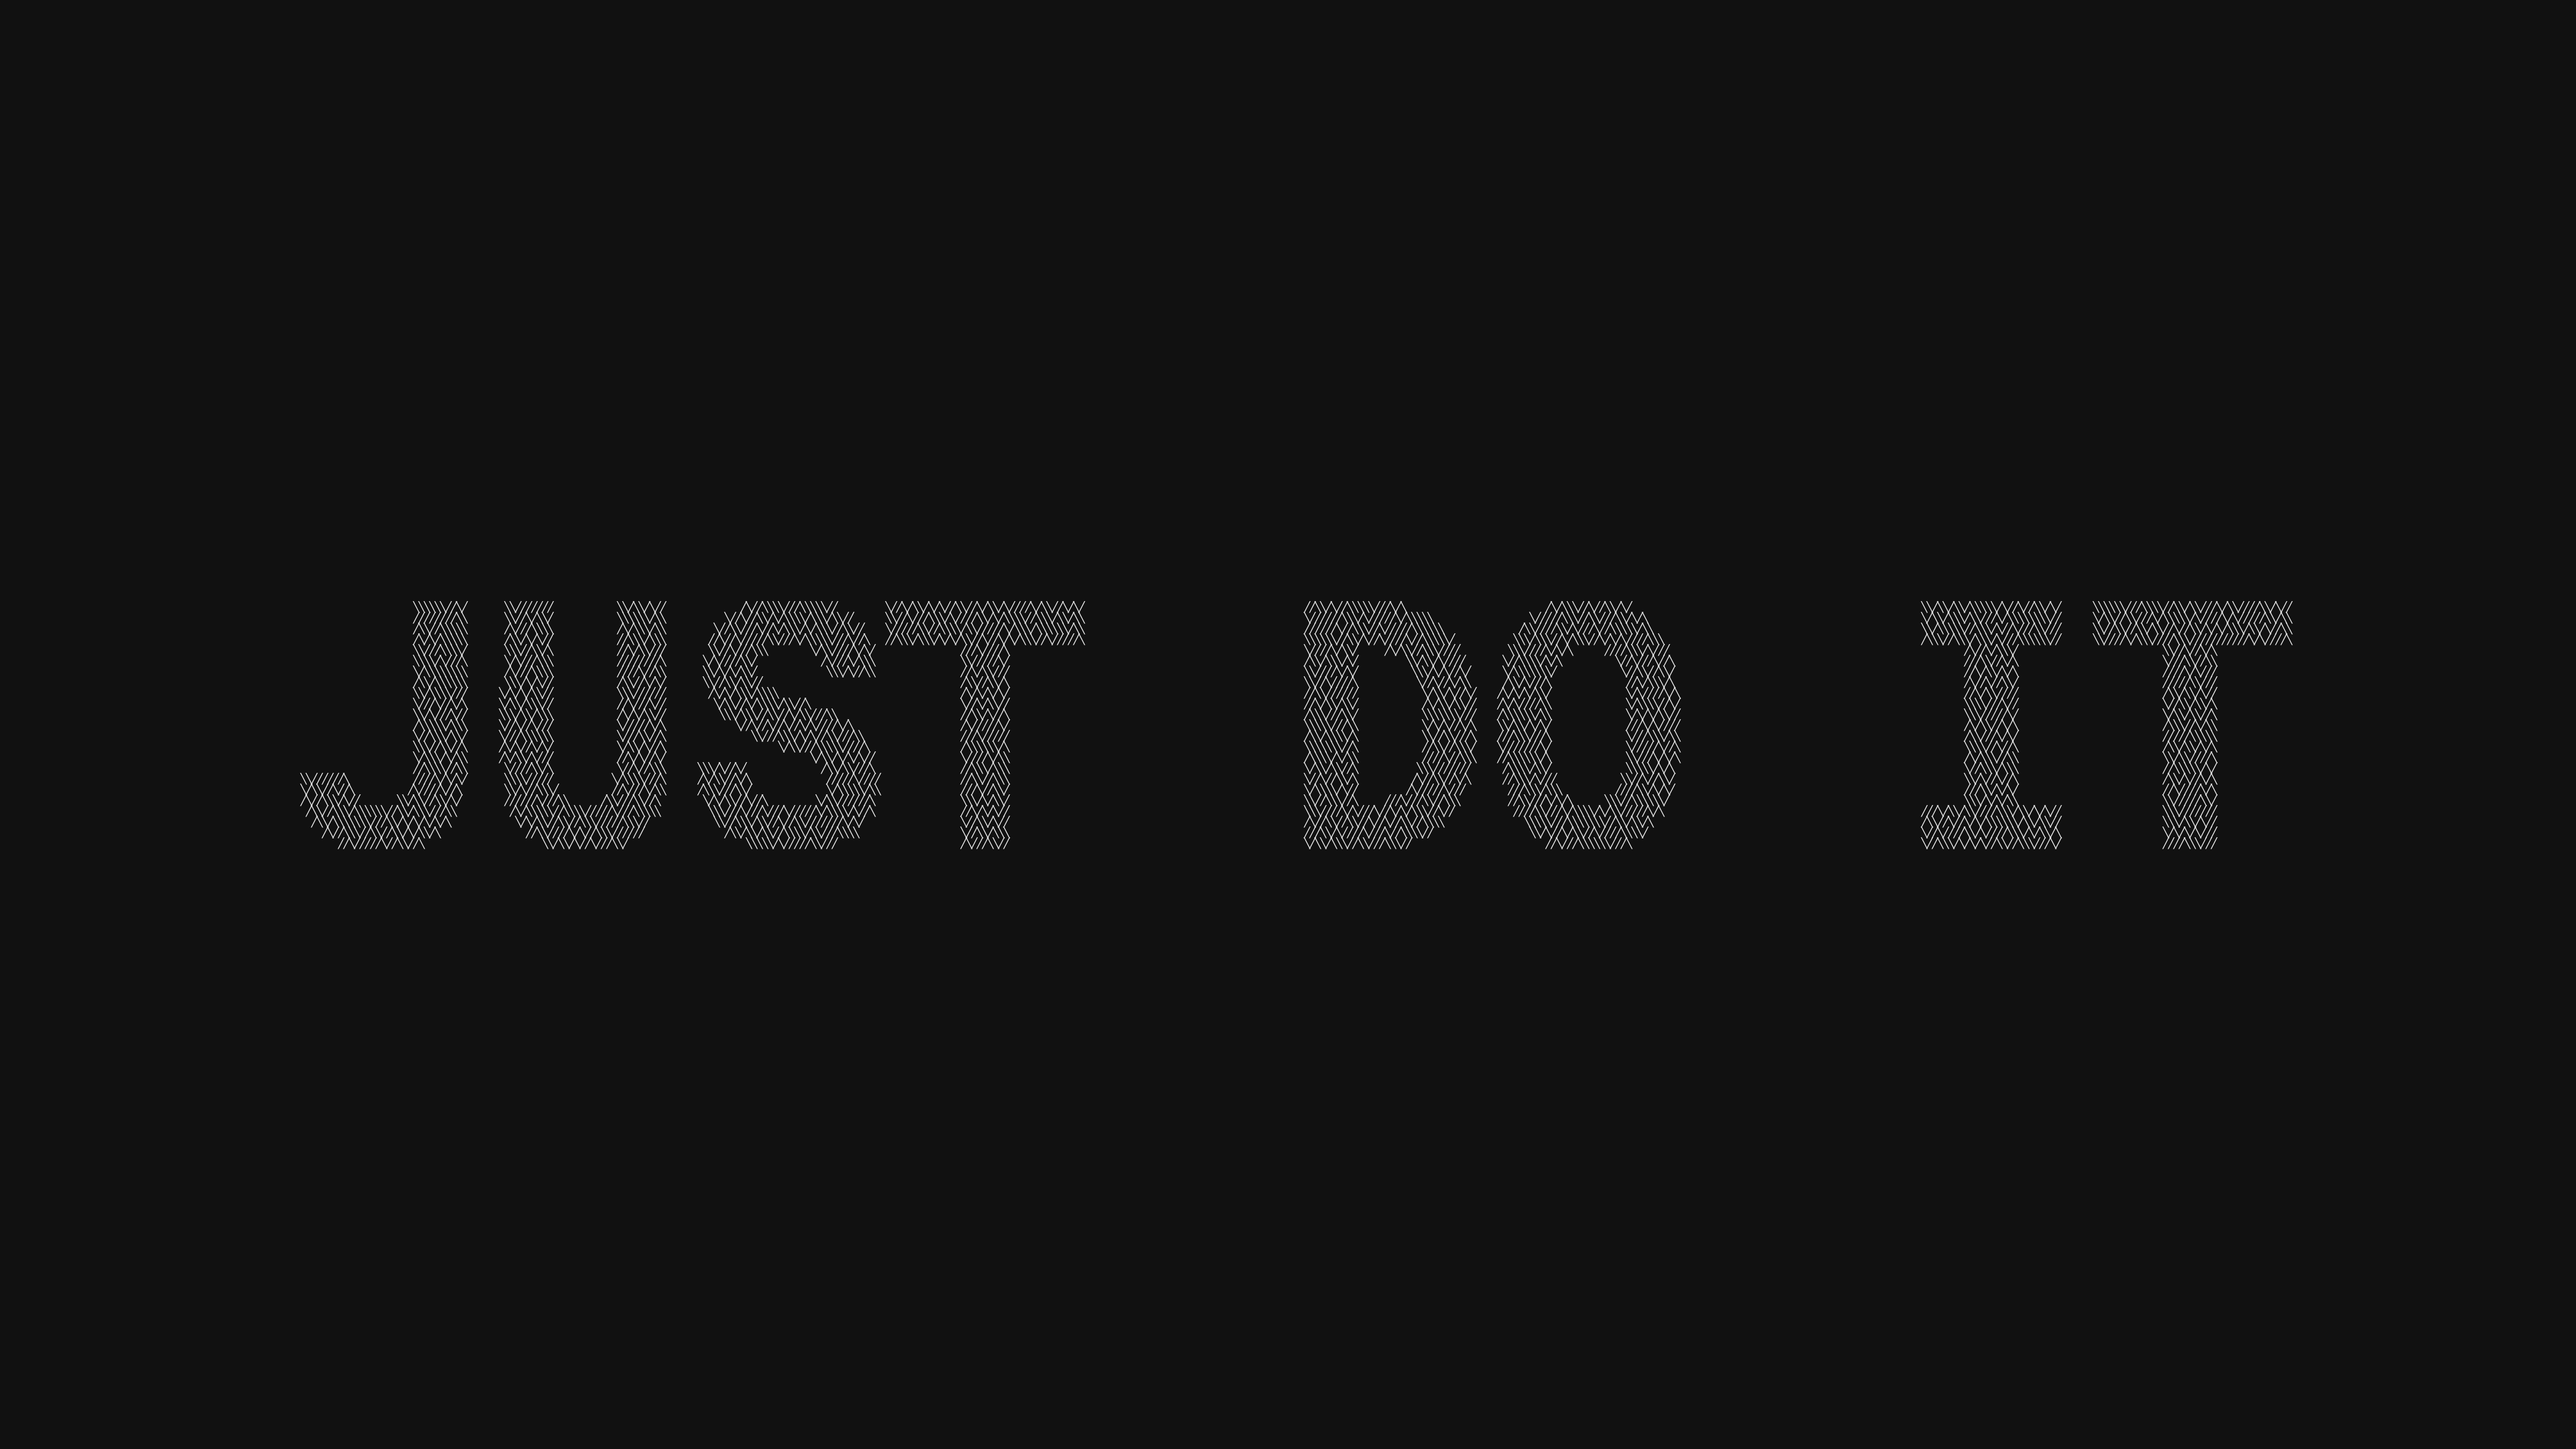
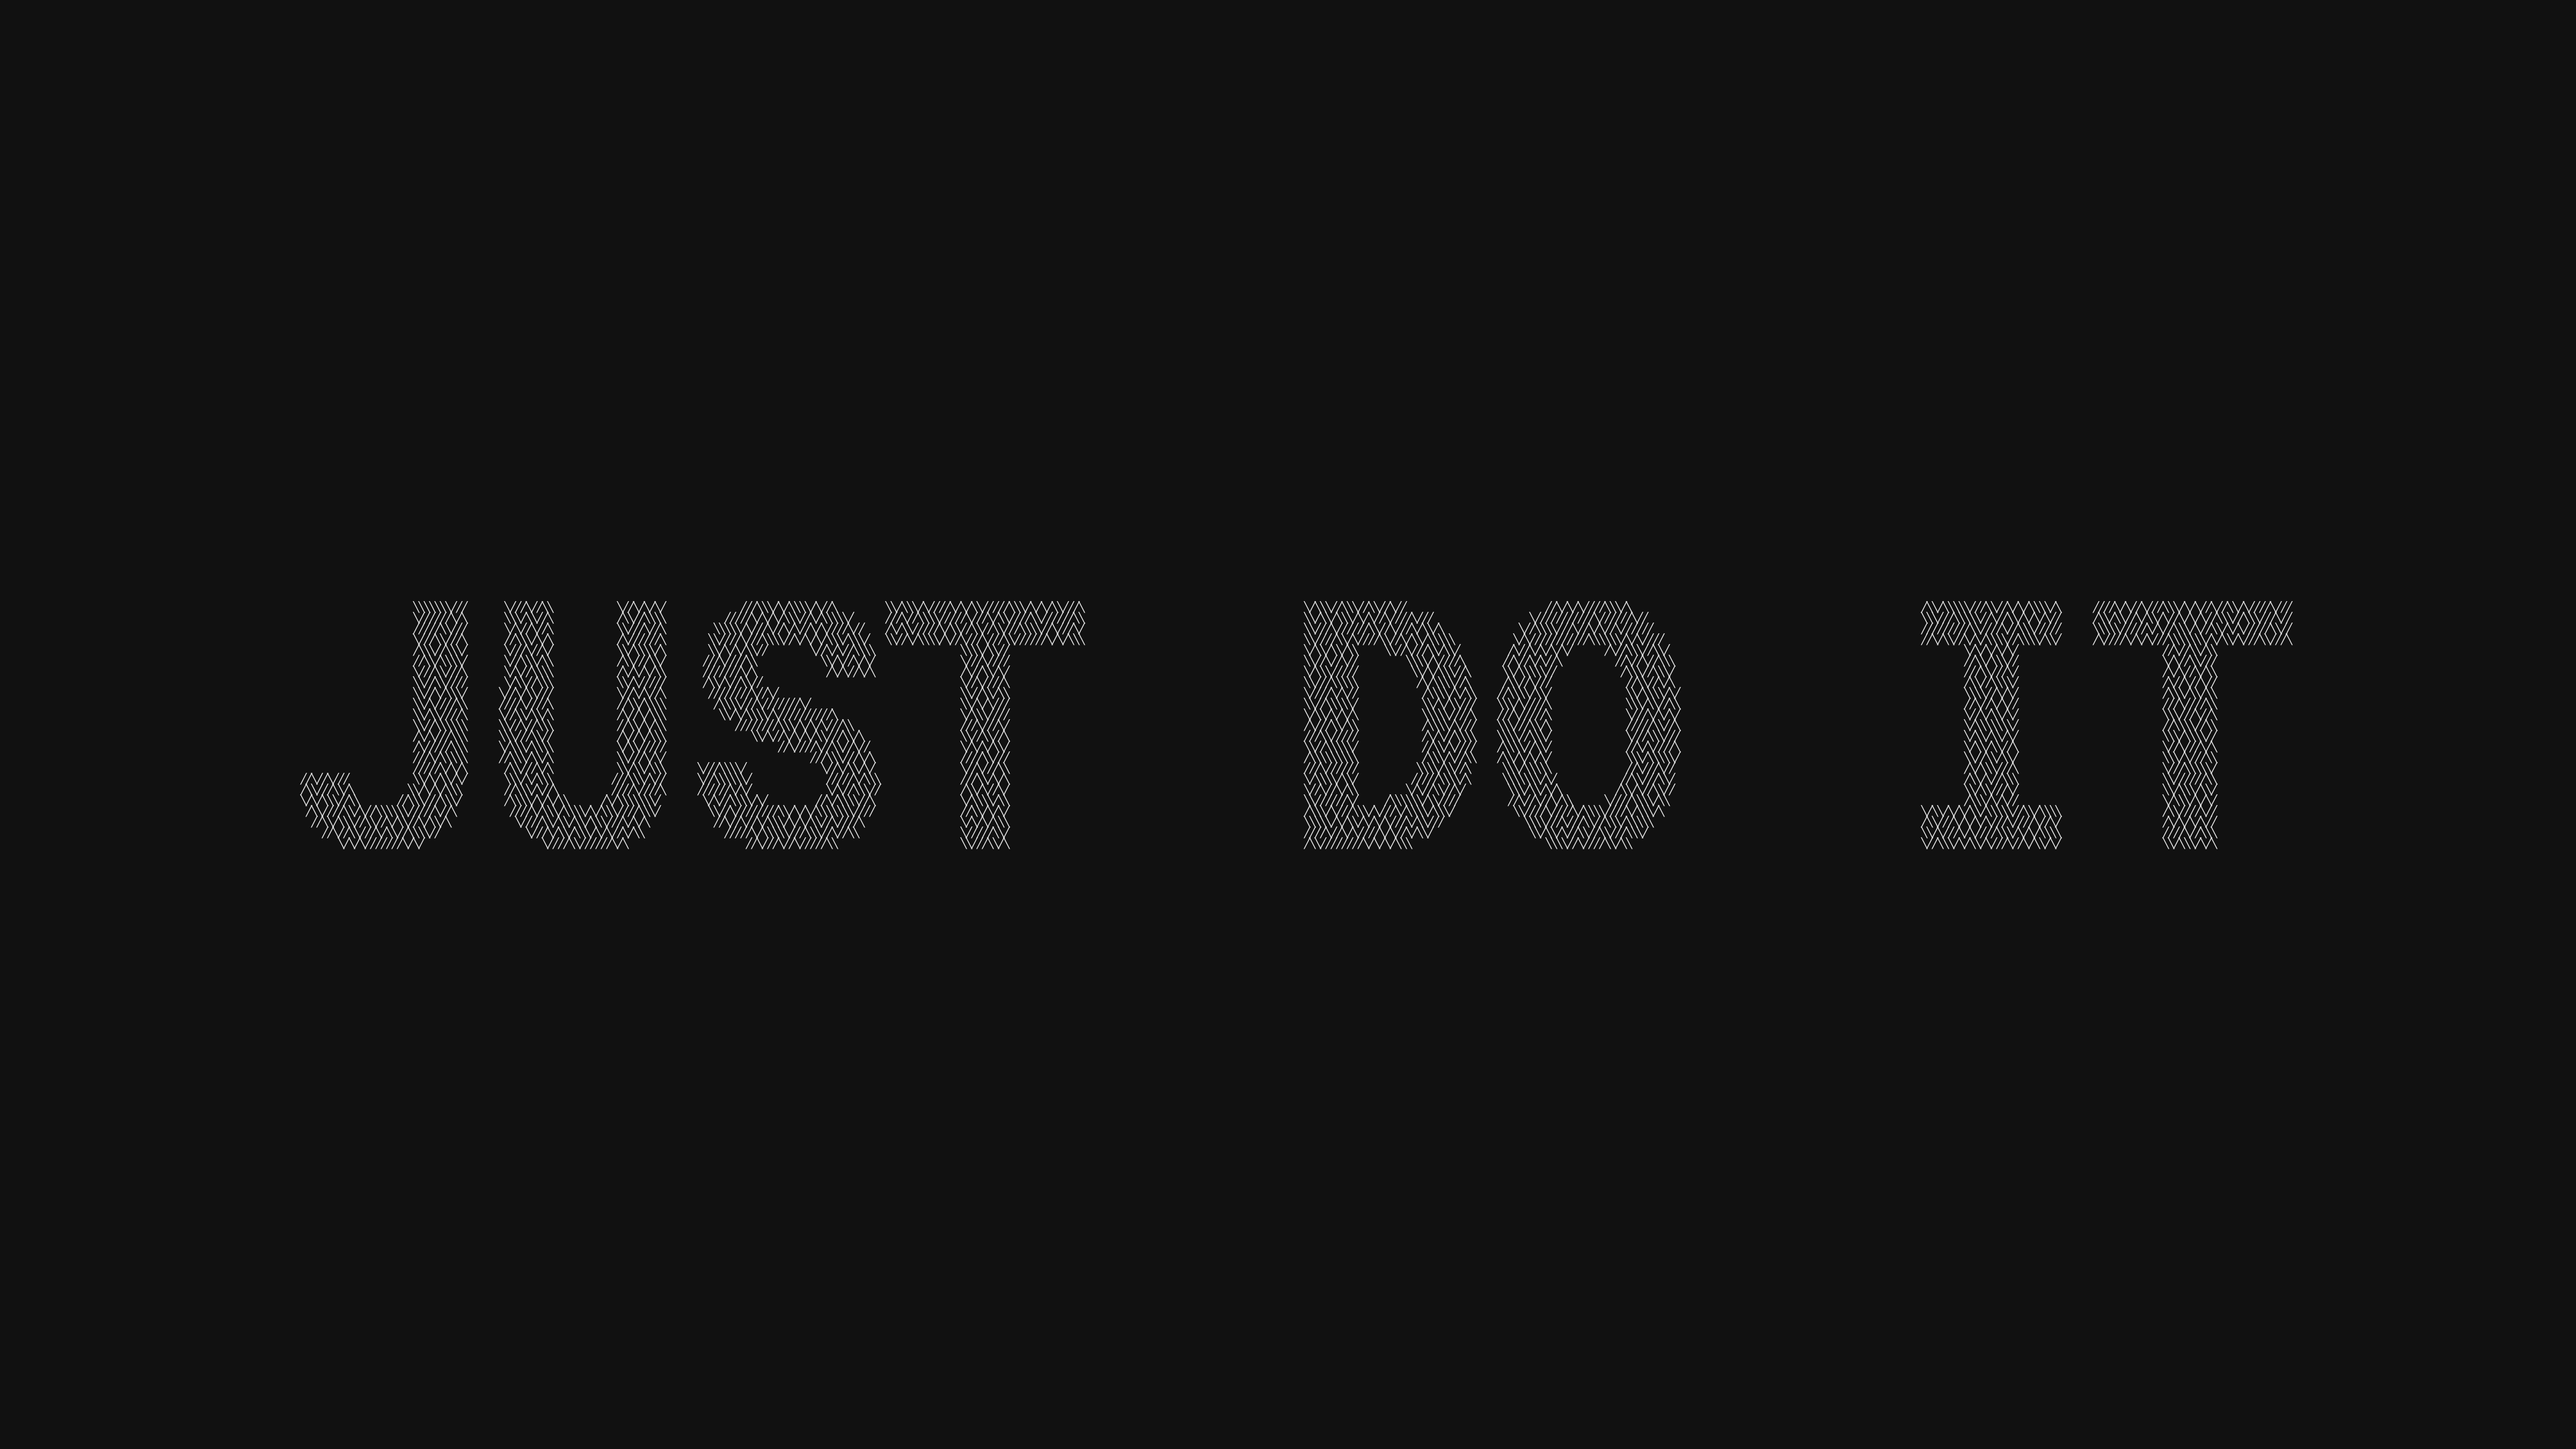
fix: SDF variants — revert to gamma ramp, remove threshold approach
Threshold produced solid white blobs with jagged hex-pattern edges that
look terrible at web scale. Gamma ramp produces natural SDF density gradient
that reads correctly at any scale.

SDF variants:
  S-G09-sdf:         gamma=1.0 linear (widest glow, classic SDF look)
  S-G09-sdf-outline: gamma=1.8 (balanced clarity + softness — best all-around)
  S-G09-sdf-mid:     gamma=3.0 (tightest glow, most contrast)
  S-G09-sdf-neon:    gamma=1.0 + cyan->magenta diagonal gradient

Reverted: sdf_fill threshold logic kept as param but not used in gallery.
DENSITY_CHARS block chars kept (still correct for density_fill path).

diff --git a/scripts/generate_gallery.py b/scripts/generate_gallery.py
@@ -957,16 +957,17 @@ def _curated_entries_g09(
     add("S-G09-noise-radial", "G09+F02 — Noise + radial", noise_grid)
 
     # Strategy C — char fills on G09 mask (full resolution)
+    # SDF variants use gamma curves (not threshold) — produces smooth density
+    # gradient that reads well at any scale (incl. web thumbnail).
+    # gamma=1.0: linear, classic diffuse glow (best at web scale)
+    # gamma=1.8: slightly biased toward interior, still visible gradient
+    # gamma=3.0: bold interior with thin visible edge ring at 4K
     _strategy_c = [
-        ("S-G09-density", "G09+F01 — Density (hi-res)", "density", {}),
-        # SDF gamma=4.0: bold solid interior, thin crisp edge ring
-        # SDF threshold=0.3: solid █ interior, crisp edge ramp
-        ("S-G09-sdf",         "G09+F06 — SDF bold interior",      "sdf", {"threshold": 0.3}),
-        # SDF gamma=1.0: linear gradient, classic diffuse outline effect
-        ("S-G09-sdf-outline", "G09+F06 — SDF outline (linear)",   "sdf", {"gamma": 1.0}),
-        # SDF threshold=0.6: thinner edge ring, tighter threshold
-        ("S-G09-sdf-mid",     "G09+F06 — SDF thin ring (threshold 0.6)", "sdf", {"threshold": 0.6}),
-        ("S-G09-shape",   "G09+F07 — Shape (hi-res)",   "shape",  {}),
+        ("S-G09-density",     "G09+F01 — Density (hi-res)",        "density", {}),
+        ("S-G09-sdf",         "G09+F06 — SDF glow (linear)",       "sdf",     {"gamma": 1.0}),
+        ("S-G09-sdf-outline", "G09+F06 — SDF bold (gamma 1.8)",   "sdf",     {"gamma": 1.8}),
+        ("S-G09-sdf-mid",     "G09+F06 — SDF intense (gamma 3.0)","sdf",     {"gamma": 3.0}),
+        ("S-G09-shape",       "G09+F07 — Shape (hi-res)",          "shape",   {}),
     ]
     for stem, label, fill_name, fkw in _strategy_c:
         print(f"    G09 Strategy C: {stem.split('-')[-1]} ...")
@@ -980,18 +981,15 @@ def _curated_entries_g09(
                                  color_fn=lambda g: _apply_gradient_color(g, grid_cols, grid_rows,
                                                                           "horizontal", FIRE_PALETTE)))
     print("    G09 Strategy C: sdf-neon ...")
-    # SDF neon: ALL ink cells colored by diagonal gradient.
-    # Interior gets full-bright color, edge gets same color at full brightness.
-    # The SDF gamma=1 outline variant shows the edge gradient naturally.
-    # This variant: pure color fill across all ink, using block chars for solidity.
-    _neon_grid = _apply_char_fill_to_grid(
-        base_grid, "sdf",
-        fill_kwargs={"threshold": 0.3},
-        color_fn=lambda g: _apply_gradient_color(g, grid_cols, grid_rows,
-                                                  "diagonal",
-                                                  [(0, 255, 200), (255, 80, 255)])
-    )
-    add("S-G09-sdf-neon", "G09+F06 — SDF + neon", _neon_grid)
+    # SDF neon: gamma=1.0 diffuse glow + diagonal cyan→magenta gradient.
+    # Chars vary by SDF density (light edge, dense interior);
+    # color varies by position — the density gradient reads as a colored glow.
+    add("S-G09-sdf-neon", "G09+F06 — SDF + neon",
+        _apply_char_fill_to_grid(base_grid, "sdf",
+                                 fill_kwargs={"gamma": 1.0},
+                                 color_fn=lambda g: _apply_gradient_color(g, grid_cols, grid_rows,
+                                                                          "diagonal",
+                                                                          [(0, 255, 200), (255, 80, 255)])))
     print("    G09 Strategy C: shape-ocean ...")
     add("S-G09-shape-ocean", "G09+F07 — Shape + ocean",
         _apply_char_fill_to_grid(base_grid, "shape",
